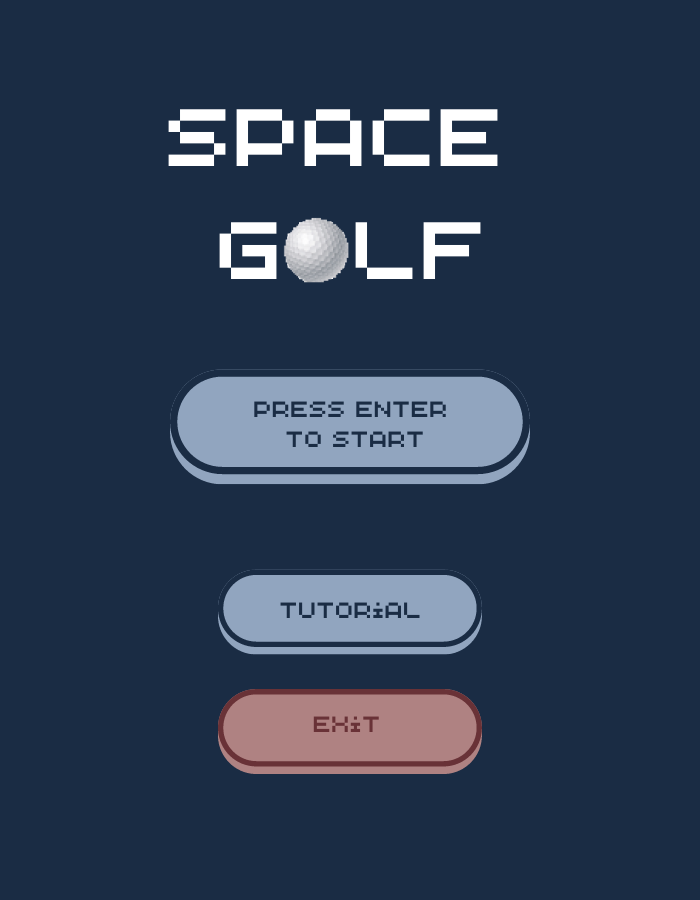
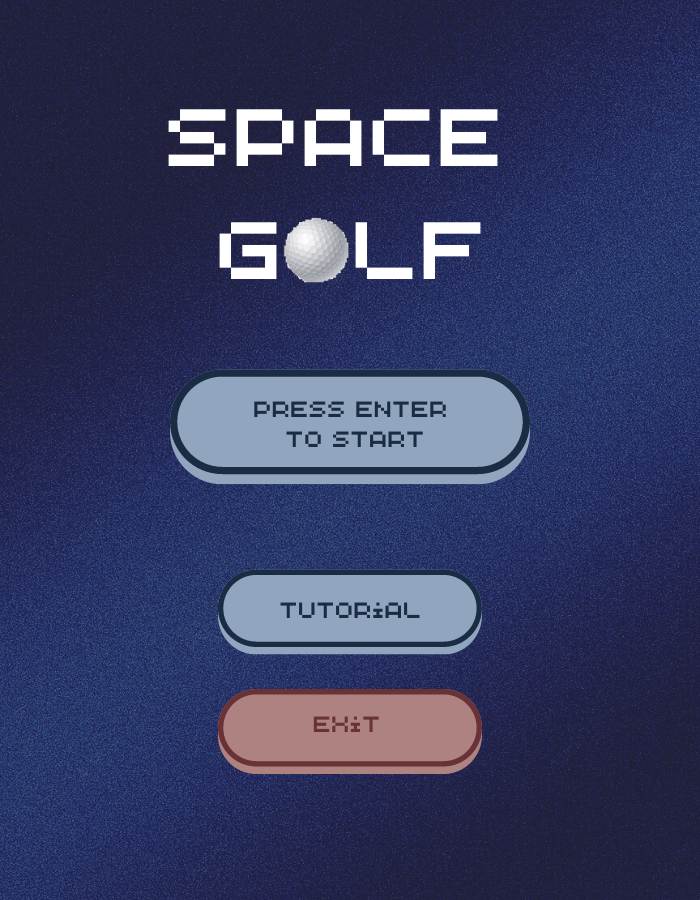
tutorial almost done

diff --git a/functions.py b/functions.py
@@ -17,6 +17,8 @@ INITIAL_VELOCITY = 0.3
 screen= pygame.display.set_mode((WIDTH,HEIGHT))
 # font = pygame.font.SysFont(None, 30)
 background_inicial = pygame.image.load("images\space_golf.png")
+background_tutorial = pygame.image.load("images\load_tutorial.jpg")
+ball_jpg = pygame.image.load("images\golf_ball.png")
 
 
 #TELA INICIAL
@@ -69,7 +71,7 @@ def inicial_screen(running, window):
 def nivel_1(running, window):
     ball = Ball()
     planets = []
-    buraco = Buraco(np.array([WIDTH/2,60]))
+    buraco = Buraco(np.array([WIDTH/2,360]))
 
 
     print(ball.surf.get_rect())
@@ -134,9 +136,9 @@ def nivel_1(running, window):
                 ball.pos = ball.pos + ball.velocity*0.001
         
 
-        screen.fill((0,0,0))
-
         
+
+        screen.blit(background_tutorial,(0,0))
         if pygame.mouse.get_pressed()[0]:
             
                 
@@ -144,14 +146,15 @@ def nivel_1(running, window):
             endpos2 = ball.pos+(start_pos-start_pos2)
             pygame.draw.line(surface= screen, color='white', start_pos= (ball.pos),end_pos=endpos2)
         
-        pygame.draw.circle(screen, ball.color, ball.pos, ball.radius)
         pygame.draw.circle(screen, ball.color, buraco.pos, buraco.radius)
+        screen.blit(ball_jpg,ball.pos+np.array([-(ball.radius),-(ball.radius)]))
         for planet in planets:
             pygame.draw.circle(screen, ball.color, planet.pos, 50)
         pos_lifebar = np.array([550,830])
         for i in range(ball.lifes):
             pygame.draw.circle(screen, (200,150,200), pos_lifebar, 10)
             pos_lifebar += np.array([30,0])
+        
         pygame.display.update()
 
 

diff --git a/Ball.py b/Ball.py
@@ -7,7 +7,7 @@ class Ball(pygame.sprite.Sprite):
         self.surf = pygame.Surface((20,20))
         self.surf.fill((255, 255, 255))
         self.rect = self.surf.get_rect()
-        self.pos = np.array([350,650])
+        self.pos = np.array([350,700])
         self.rect.topleft = [self.pos[0]-10,self.pos[1]-10]
         self.velocity = np.array([0, 0])
         self.color = (255, 255, 0)
